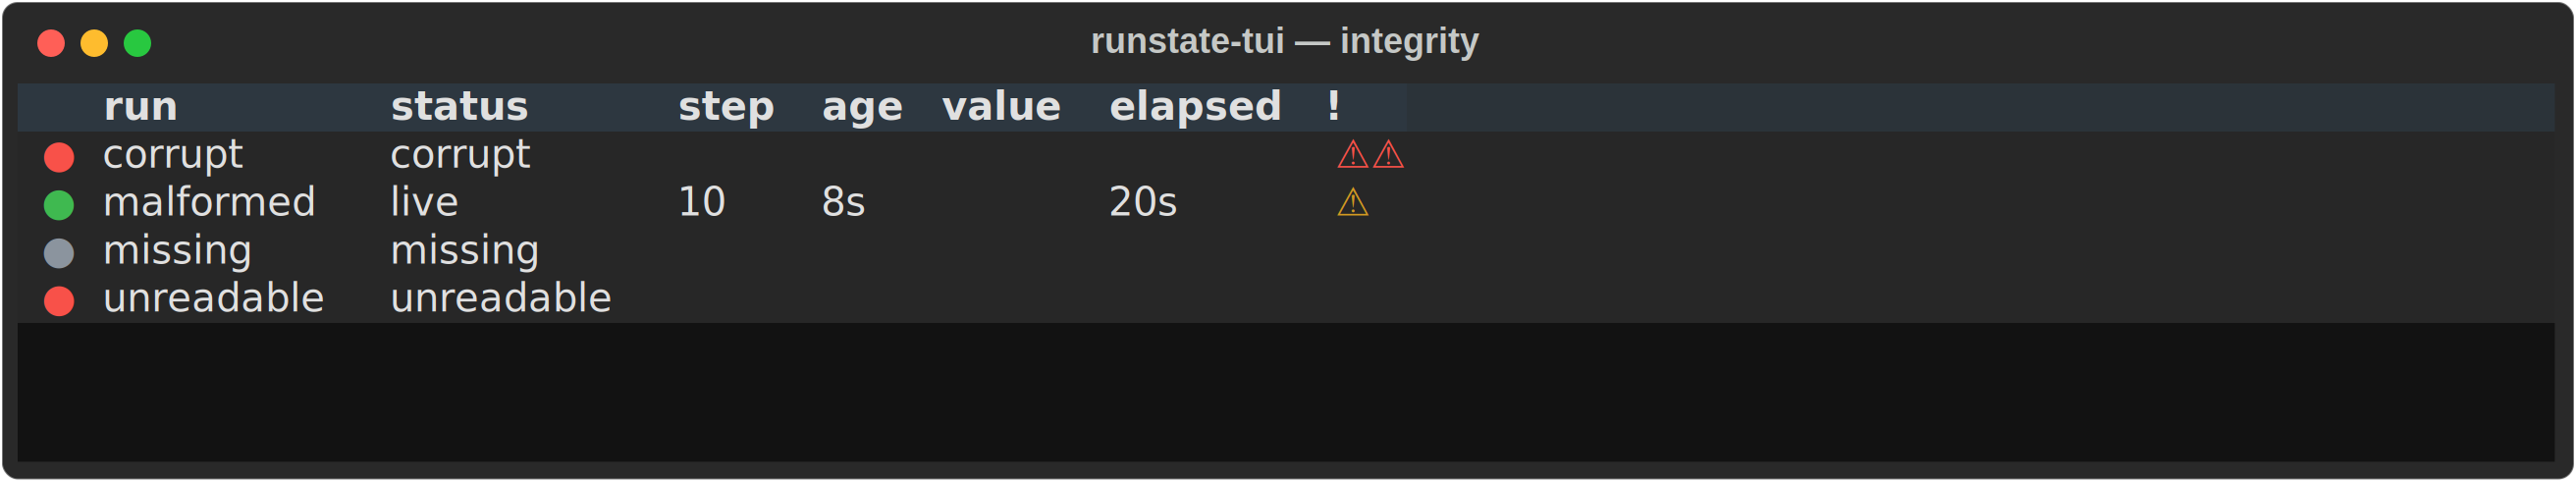
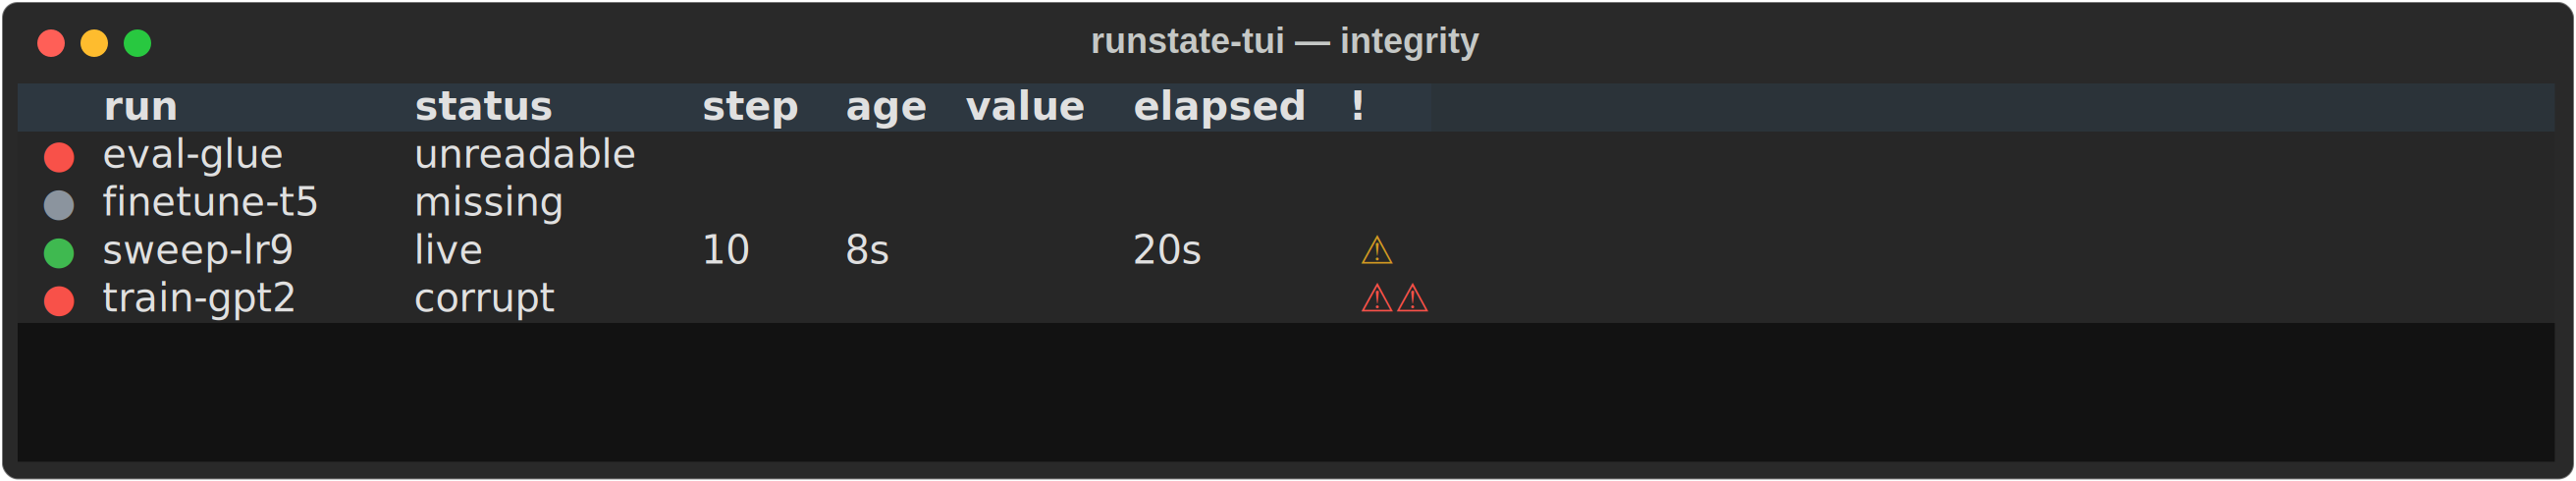
docs(showcase): realistic run names in the integrity scene
The integrity scene seeded run files named after their states (corrupt/
unreadable/missing/malformed), which misleadingly reads as if the run NAME
tracks status. It doesn't — the `run` column is just the run_id. Renamed to
realistic runs (train-gpt2/eval-glue/finetune-t5/sweep-lr9); the status column
+ the colored dot carry the integrity state honestly.

Claude-Session: https://claude.ai/code/session_01EZVuQQF3vdynEXvyDApYKp

diff --git a/scripts/showcase.py b/scripts/showcase.py
@@ -135,11 +135,14 @@ async def scene_single(out_dir: Path) -> Path:
 async def scene_integrity(out_dir: Path) -> Path:
     root = Path(tempfile.mkdtemp())
 
-    c = _ch(root, "corrupt")  # started + hb, then the hb record byte-torn -> ⚠⚠ + red dot
+    # Realistic run names — the STATUS column + the colored dot carry the integrity state,
+    # NOT the run name (the `run` column is just the run_id; naming files after their state
+    # would misleadingly imply a name<->status coupling that does not exist).
+    c = _ch(root, "train-gpt2")  # byte-torn hb -> corrupt (⚠⚠ + red dot)
     c.send({"handle": "local://h/1", "t": 280.0}, topic="lifecycle.started")
     c.send({"step": 10, "consumed_seq": 0, "t": 292.0}, topic="lifecycle.heartbeat")
     c.close()
-    _corrupt(root, "corrupt", 2, "{not json")
+    _corrupt(root, "train-gpt2", 2, "{not json")
 
     # not a sqlite database at all -- open_channel raises sqlite3.DatabaseError, caught
     # by open_and_fold's _OPEN_ERRORS -> unreadable (red dot, no marker). NOT a foreign
@@ -147,19 +150,21 @@ async def scene_integrity(out_dir: Path) -> Path:
     # tests/scenarios/test_fold_plane.py::test_foreign_valid_db_reads_pending) where
     # open_channel's `CREATE TABLE IF NOT EXISTS log` silently adopts the file and it
     # reads back as an ordinary empty `pending` run instead.
-    (root / "unreadable.db").write_bytes(b"this is not a sqlite database")
+    (root / "eval-glue.db").write_bytes(b"this is not a sqlite database")  # -> unreadable (red dot)
 
-    # "missing": its .db is never created -- grey dot, no marker.
+    # "finetune-t5": its .db is never created -> missing: grey dot, no marker.
 
-    c = _ch(root, "malformed")  # started + hb + value, then the value body -> alien int -> ⚠
+    c = _ch(
+        root, "sweep-lr9"
+    )  # started + hb + value, then the value body -> alien int -> live + malformed ⚠
     c.send({"handle": "local://h/1", "t": 280.0}, topic="lifecycle.started")
     c.send({"step": 10, "consumed_seq": 0, "t": 292.0}, topic="lifecycle.heartbeat")
     c.send({"value": 0.5, "step": 10, "t": 292.0}, topic="value", name="loss")
     c.close()
-    _corrupt(root, "malformed", 3, "42")
+    _corrupt(root, "sweep-lr9", 3, "42")
 
     refs: list[RunRef] = [
-        (r, str(root), "sqlite") for r in ("corrupt", "unreadable", "missing", "malformed")
+        (r, str(root), "sqlite") for r in ("train-gpt2", "eval-glue", "finetune-t5", "sweep-lr9")
     ]
     app = MultiRunApp(
         explicit_resolver(refs), Env(clock=lambda: NOW, objective="loss"), tick_interval=999